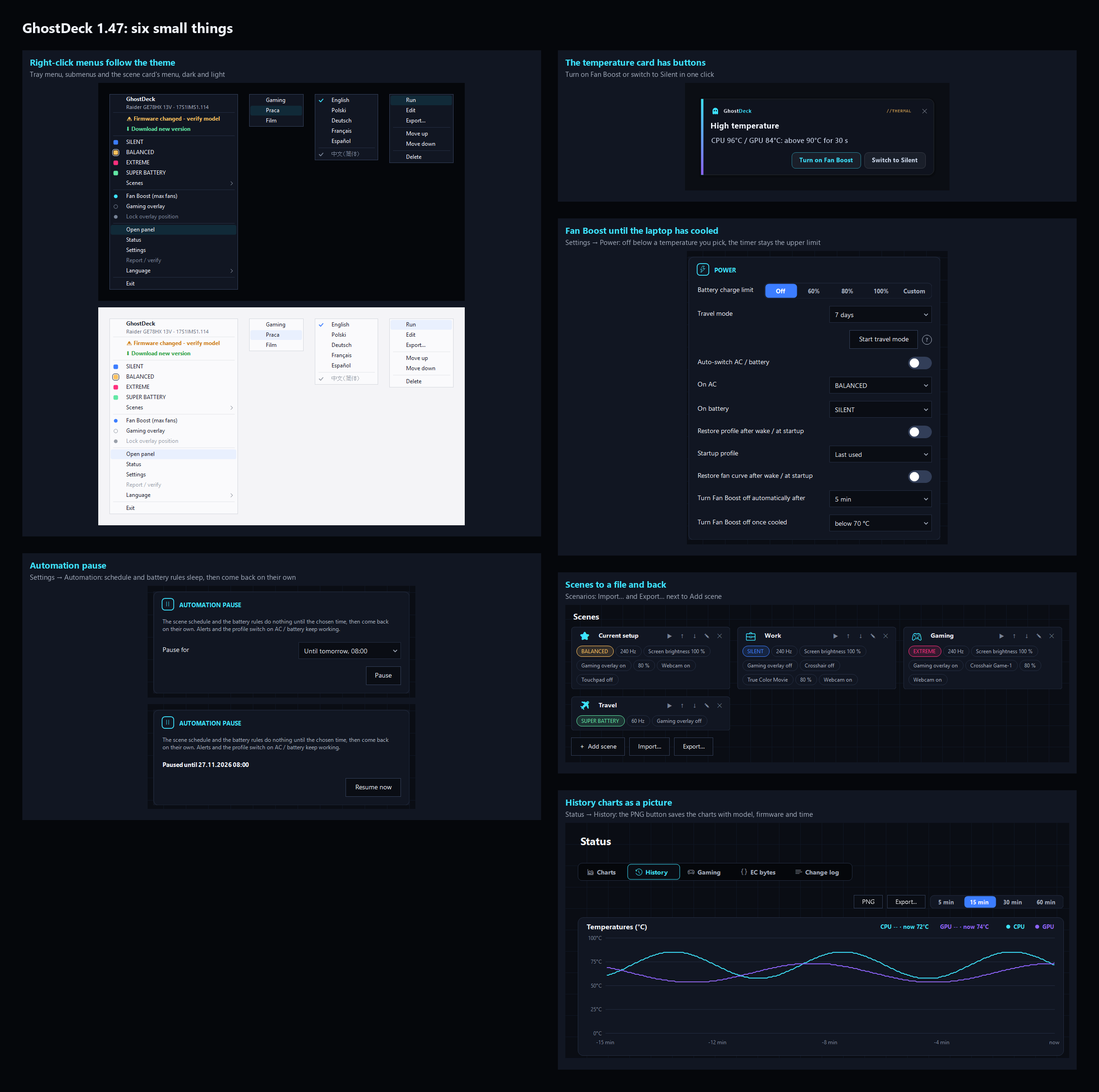
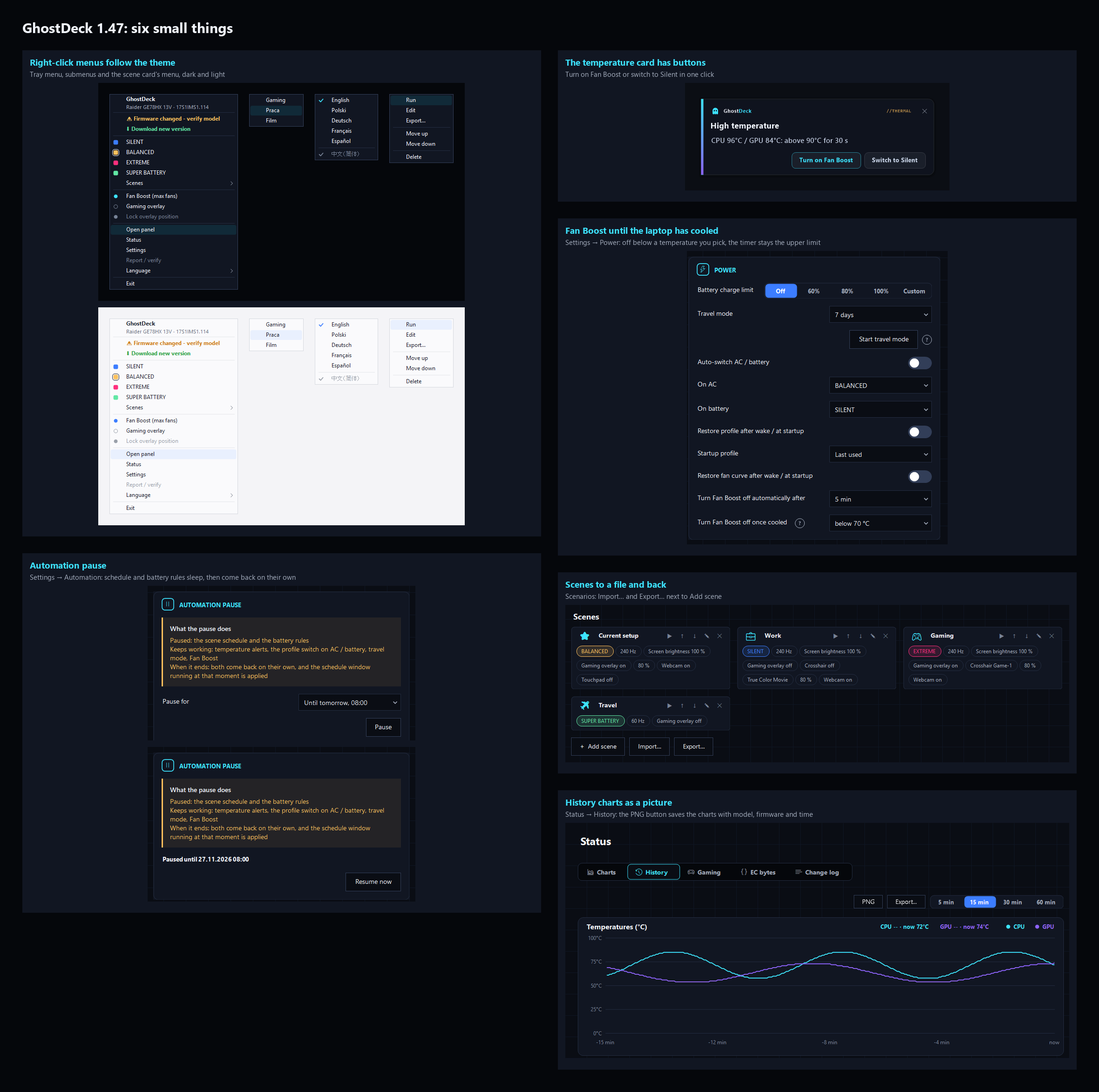
Fan Boost off once cooled: a help dot that says both CPU and GPU are watched; automation pause: an amber note of what the pause does (NoteBox)

Changed region(s): [[0.1237, 0.6537, 0.3712, 0.7783], [0.1547, 0.5603, 0.3712, 0.6537]]

diff --git a/Core/Lang.cs b/Core/Lang.cs
@@ -748,23 +748,80 @@ public static class Lang
         m["scene_file_bad"] = new[] { "This file holds no GhostDeck scenes.", "W tym pliku nie ma scen GhostDeck.", "Diese Datei enthält keine GhostDeck-Szenen.", "Ce fichier ne contient aucune scène GhostDeck.", "Este archivo no contiene escenas de GhostDeck.", "此文件中没有 GhostDeck 场景。", "Este arquivo não contém cenas do GhostDeck.", "В этом файле нет сцен GhostDeck.", "このファイルに GhostDeck のシーンはありません。", "이 파일에는 GhostDeck 장면이 없습니다.", "此檔案中沒有 GhostDeck 場景。", "Bu dosyada GhostDeck sahnesi yok.", "Tệp này không chứa cảnh GhostDeck nào.", "Berkas ini tidak berisi adegan GhostDeck.", "Questo file non contiene scene GhostDeck." };
         // (roadmap #75) automation pause
         m["ap_grp"]         = new[] { "Automation pause", "Pauza automatyki", "Automatik-Pause", "Pause de l'automatisation", "Pausa de la automatización", "自动化暂停", "Pausa da automação", "Пауза автоматики", "自動化の一時停止", "자동화 일시 중지", "自動化暫停", "Otomasyon duraklatma", "Tạm dừng tự động hóa", "Jeda otomatisasi", "Pausa dell'automazione" };
-        m["ap_desc"]        = new[]
+        // the amber note of the pause card: a title and three lines (what stops, what keeps working, what happens at the end)
+        m["ap_box_title"]   = new[] { "What the pause does", "Co robi pauza", "Was die Pause bewirkt", "Ce que fait la pause", "Qué hace la pausa", "暂停的作用", "O que a pausa faz", "Что делает пауза", "一時停止の内容", "일시 중지가 하는 일", "暫停的作用", "Duraklatma ne yapar", "Tạm dừng làm gì", "Apa yang dilakukan jeda", "Cosa fa la pausa" };
+        m["ap_box_paused"]  = new[]
         {
-            "The scene schedule and the battery rules do nothing until the chosen time, then come back on their own. Alerts and the profile switch on AC / battery keep working.",
-            "Harmonogram scen i reguły baterii nic nie robią do wybranej pory, potem same wracają. Alerty i przełączanie profilu przy zasilaczu / baterii działają dalej.",
-            "Szenen-Zeitplan und Akkuregeln tun bis zum gewählten Zeitpunkt nichts und kommen dann von selbst zurück. Warnungen und der Profilwechsel bei Netz / Akku arbeiten weiter.",
-            "La planification des scènes et les règles de batterie ne font rien jusqu'au moment choisi, puis reviennent d'elles-mêmes. Les alertes et le changement de profil secteur / batterie continuent.",
-            "La programación de escenas y las reglas de batería no hacen nada hasta el momento elegido y luego vuelven solas. Las alertas y el cambio de perfil con corriente / batería siguen funcionando.",
-            "场景计划和电池规则在所选时间之前不执行任何操作，之后自动恢复。警报以及电源 / 电池的配置文件切换照常工作。",
-            "O agendamento de cenas e as regras de bateria não fazem nada até a hora escolhida e depois voltam sozinhos. Os alertas e a troca de perfil na tomada / bateria continuam funcionando.",
-            "Расписание сцен и правила батареи ничего не делают до выбранного времени, а потом включаются сами. Оповещения и смена профиля при питании от сети / батареи работают как обычно.",
-            "シーンスケジュールとバッテリールールは選んだ時刻まで何もせず、その後は自動で再開します。アラートと AC / バッテリーでのプロファイル切り替えは動作を続けます。",
-            "장면 일정과 배터리 규칙은 선택한 시간까지 아무 동작도 하지 않고, 이후 자동으로 돌아옵니다. 알림과 전원 / 배터리 프로필 전환은 계속 작동합니다.",
-            "場景排程和電池規則在所選時間之前不執行任何動作，之後自動恢復。警示以及電源 / 電池的設定檔切換照常運作。",
-            "Sahne zamanlaması ve pil kuralları seçilen zamana kadar hiçbir şey yapmaz, sonra kendiliğinden geri döner. Uyarılar ve adaptör / pil profil geçişi çalışmaya devam eder.",
-            "Lịch trình cảnh và các quy tắc pin không làm gì cho đến thời điểm đã chọn, sau đó tự hoạt động lại. Cảnh báo và việc chuyển hồ sơ khi cắm sạc / dùng pin vẫn hoạt động.",
-            "Jadwal adegan dan aturan baterai tidak melakukan apa pun sampai waktu yang dipilih, lalu kembali dengan sendirinya. Peringatan dan peralihan profil saat AC / baterai tetap berjalan.",
-            "La pianificazione delle scene e le regole della batteria non fanno nulla fino al momento scelto, poi tornano da sole. Gli avvisi e il cambio profilo con alimentatore / batteria continuano a funzionare.",
+            "Paused: the scene schedule and the battery rules",
+            "Wstrzymane: harmonogram scen i reguły baterii",
+            "Pausiert: Szenen-Zeitplan und Akkuregeln",
+            "En pause : la planification des scènes et les règles de batterie",
+            "En pausa: la programación de escenas y las reglas de batería",
+            "已暂停：场景计划和电池规则",
+            "Em pausa: o agendamento de cenas e as regras de bateria",
+            "На паузе: расписание сцен и правила батареи",
+            "一時停止：シーンスケジュールとバッテリールール",
+            "일시 중지: 장면 일정과 배터리 규칙",
+            "已暫停：場景排程和電池規則",
+            "Duraklatılan: sahne zamanlaması ve pil kuralları",
+            "Tạm dừng: lịch trình cảnh và các quy tắc pin",
+            "Dijeda: jadwal adegan dan aturan baterai",
+            "In pausa: la pianificazione delle scene e le regole della batteria",
+        };
+        m["ap_box_keeps"]   = new[]
+        {
+            "Keeps working: temperature alerts, the profile switch on AC / battery, travel mode, Fan Boost",
+            "Działa dalej: alerty temperatur, przełączanie profilu zasilacz / bateria, tryb podróży, Fan Boost",
+            "Arbeitet weiter: Temperaturwarnungen, Profilwechsel bei Netz / Akku, Reisemodus, Fan Boost",
+            "Continue de fonctionner : alertes de température, changement de profil secteur / batterie, mode voyage, Fan Boost",
+            "Sigue funcionando: alertas de temperatura, cambio de perfil con corriente / batería, modo viaje, Fan Boost",
+            "照常工作：温度警报、电源 / 电池的配置文件切换、旅行模式、Fan Boost",
+            "Continua funcionando: alertas de temperatura, troca de perfil na tomada / bateria, modo viagem, Fan Boost",
+            "Работает как обычно: оповещения о температуре, смена профиля от сети / батареи, режим поездки, Fan Boost",
+            "動作を続けるもの：温度アラート、AC / バッテリーでのプロファイル切り替え、トラベルモード、Fan Boost",
+            "계속 작동: 온도 알림, 전원 / 배터리 프로필 전환, 여행 모드, Fan Boost",
+            "照常運作：溫度警示、電源 / 電池的設定檔切換、旅行模式、Fan Boost",
+            "Çalışmaya devam eder: sıcaklık uyarıları, adaptör / pil profil geçişi, seyahat modu, Fan Boost",
+            "Vẫn hoạt động: cảnh báo nhiệt độ, chuyển hồ sơ khi cắm sạc / dùng pin, chế độ du lịch, Fan Boost",
+            "Tetap berjalan: peringatan suhu, peralihan profil saat AC / baterai, mode perjalanan, Fan Boost",
+            "Continua a funzionare: avvisi di temperatura, cambio profilo con alimentatore / batteria, modalità viaggio, Fan Boost",
+        };
+        m["ap_box_after"]   = new[]
+        {
+            "When it ends: both come back on their own, and the schedule window running at that moment is applied",
+            "Po zakończeniu: oba wracają same i obowiązuje okno harmonogramu, które wtedy trwa",
+            "Am Ende: beide kommen von selbst zurück, und das dann laufende Zeitfenster wird angewendet",
+            "À la fin : les deux reviennent d'eux-mêmes, et la plage horaire en cours à ce moment est appliquée",
+            "Al terminar: ambas vuelven solas y se aplica la franja horaria que esté activa en ese momento",
+            "结束时：两者自动恢复，并应用当时正在进行的计划时段",
+            "Ao terminar: os dois voltam sozinhos e a janela do agendamento em curso nesse momento é aplicada",
+            "По окончании: оба включаются сами, и применяется окно расписания, идущее в этот момент",
+            "終了時：どちらも自動で再開し、その時点で進行中のスケジュール枠が適用されます",
+            "끝나면: 둘 다 자동으로 돌아오고, 그때 진행 중인 일정 구간이 적용됩니다",
+            "結束時：兩者自動恢復，並套用當時正在進行的排程時段",
+            "Bittiğinde: ikisi de kendiliğinden geri döner ve o anda süren zaman aralığı uygulanır",
+            "Khi kết thúc: cả hai tự hoạt động lại và khung giờ lịch trình đang diễn ra lúc đó được áp dụng",
+            "Saat berakhir: keduanya kembali dengan sendirinya, dan jendela jadwal yang sedang berjalan saat itu diterapkan",
+            "Al termine: entrambe tornano da sole e viene applicata la fascia oraria in corso in quel momento",
+        };
+        // (roadmap #37) the "?" next to "Turn Fan Boost off once cooled"
+        m["fb_cool_help"]   = new[]
+        {
+            "Fan Boost turns off when the hotter of the processor and the graphics card has stayed below this temperature for about 10 seconds.\n\nBoth are watched, not the processor alone: otherwise Fan Boost would turn off while the graphics card is still hot.\n\nFan Boost always runs for at least 30 seconds. The timer above keeps working and is the upper limit when both are set.",
+            "Fan Boost wyłącza się, gdy cieplejszy z pary procesor / karta graficzna utrzyma się poniżej tej temperatury przez około 10 sekund.\n\nLiczą się oba, nie sam procesor: inaczej Fan Boost wyłączałby się przy wciąż gorącej karcie graficznej.\n\nFan Boost działa zawsze co najmniej 30 sekund. Licznik czasu powyżej działa dalej i jest górnym limitem, gdy ustawione są oba.",
+            "Fan Boost schaltet sich aus, wenn der heißere von Prozessor und Grafikkarte etwa 10 Sekunden unter dieser Temperatur geblieben ist.\n\nBeide werden beobachtet, nicht nur der Prozessor: sonst würde Fan Boost ausgehen, während die Grafikkarte noch heiß ist.\n\nFan Boost läuft immer mindestens 30 Sekunden. Der Timer darüber arbeitet weiter und ist die Obergrenze, wenn beides eingestellt ist.",
+            "Fan Boost s'éteint quand le plus chaud du processeur et de la carte graphique est resté sous cette température pendant environ 10 secondes.\n\nLes deux sont surveillés, pas seulement le processeur : sinon Fan Boost s'éteindrait alors que la carte graphique est encore chaude.\n\nFan Boost fonctionne toujours au moins 30 secondes. Le minuteur ci-dessus continue et reste la limite haute quand les deux sont réglés.",
+            "Fan Boost se apaga cuando el más caliente entre el procesador y la tarjeta gráfica se ha mantenido por debajo de esta temperatura unos 10 segundos.\n\nSe vigilan los dos, no solo el procesador: de lo contrario Fan Boost se apagaría con la tarjeta gráfica aún caliente.\n\nFan Boost funciona siempre al menos 30 segundos. El temporizador de arriba sigue activo y es el límite máximo cuando ambos están configurados.",
+            "当处理器和显卡中较热的一个在此温度以下保持约 10 秒时，Fan Boost 关闭。\n\n两者都会被监测，而不只是处理器：否则显卡仍然很热时 Fan Boost 就会关闭。\n\nFan Boost 至少运行 30 秒。上方的计时器照常工作，两者都设置时它是时间上限。",
+            "O Fan Boost desliga quando o mais quente entre o processador e a placa de vídeo fica abaixo desta temperatura por cerca de 10 segundos.\n\nOs dois são observados, não só o processador: senão o Fan Boost desligaria com a placa de vídeo ainda quente.\n\nO Fan Boost funciona sempre por pelo menos 30 segundos. O temporizador acima continua ativo e é o limite máximo quando os dois estão definidos.",
+            "Fan Boost выключается, когда более горячий из процессора и видеокарты держится ниже этой температуры около 10 секунд.\n\nУчитываются оба, а не только процессор: иначе Fan Boost выключался бы при всё ещё горячей видеокарте.\n\nFan Boost всегда работает не меньше 30 секунд. Таймер выше продолжает действовать и остаётся верхним пределом, когда заданы оба.",
+            "プロセッサとグラフィックカードのうち熱い方が、この温度を約 10 秒間下回ると Fan Boost はオフになります。\n\nプロセッサだけでなく両方を監視します。そうしないと、グラフィックカードがまだ熱いうちに Fan Boost がオフになってしまいます。\n\nFan Boost は必ず 30 秒以上動作します。上のタイマーも引き続き働き、両方を設定した場合は上限になります。",
+            "프로세서와 그래픽 카드 중 더 뜨거운 쪽이 이 온도 아래로 약 10초 동안 유지되면 Fan Boost가 꺼집니다.\n\n프로세서만이 아니라 둘 다 확인합니다. 그렇지 않으면 그래픽 카드가 아직 뜨거운데 Fan Boost가 꺼지게 됩니다.\n\nFan Boost는 항상 최소 30초 동안 작동합니다. 위의 타이머도 계속 작동하며, 둘 다 설정된 경우 상한이 됩니다.",
+            "當處理器和顯示卡中較熱的一個在此溫度以下維持約 10 秒時，Fan Boost 關閉。\n\n兩者都會被監測，而不只是處理器：否則顯示卡仍然很熱時 Fan Boost 就會關閉。\n\nFan Boost 至少運作 30 秒。上方的計時器照常運作，兩者都設定時它是時間上限。",
+            "İşlemci ve ekran kartından daha sıcak olanı yaklaşık 10 saniye bu sıcaklığın altında kaldığında Fan Boost kapanır.\n\nYalnızca işlemci değil, ikisi de izlenir: aksi halde ekran kartı hâlâ sıcakken Fan Boost kapanırdı.\n\nFan Boost her zaman en az 30 saniye çalışır. Yukarıdaki zamanlayıcı çalışmaya devam eder ve ikisi de ayarlıysa üst sınırdır.",
+            "Fan Boost tắt khi linh kiện nóng hơn trong hai linh kiện, bộ xử lý và card đồ họa, giữ dưới nhiệt độ này khoảng 10 giây.\n\nCả hai đều được theo dõi, không chỉ bộ xử lý: nếu không, Fan Boost sẽ tắt khi card đồ họa vẫn còn nóng.\n\nFan Boost luôn chạy ít nhất 30 giây. Bộ hẹn giờ ở trên vẫn hoạt động và là giới hạn trên khi cả hai được đặt.",
+            "Fan Boost mati ketika yang lebih panas di antara prosesor dan kartu grafis bertahan di bawah suhu ini selama sekitar 10 detik.\n\nKeduanya dipantau, bukan hanya prosesor: jika tidak, Fan Boost akan mati saat kartu grafis masih panas.\n\nFan Boost selalu berjalan setidaknya 30 detik. Pengatur waktu di atas tetap bekerja dan menjadi batas atas jika keduanya diatur.",
+            "Fan Boost si spegne quando il più caldo tra processore e scheda grafica è rimasto sotto questa temperatura per circa 10 secondi.\n\nVengono controllati entrambi, non solo il processore: altrimenti Fan Boost si spegnerebbe con la scheda grafica ancora calda.\n\nFan Boost funziona sempre per almeno 30 secondi. Il timer qui sopra continua a funzionare ed è il limite massimo quando sono impostati entrambi.",
         };
         m["ap_for"]         = new[] { "Pause for", "Wstrzymaj na", "Pausieren für", "Mettre en pause pendant", "Pausar durante", "暂停时长", "Pausar por", "Приостановить на", "一時停止する期間", "일시 중지 기간", "暫停時長", "Şu süreyle duraklat", "Tạm dừng trong", "Jeda selama", "Metti in pausa per" };
         m["ap_start"]       = new[] { "Pause", "Wstrzymaj", "Pausieren", "Mettre en pause", "Pausar", "暂停", "Pausar", "Приостановить", "一時停止", "일시 중지", "暫停", "Duraklat", "Tạm dừng", "Jeda", "Metti in pausa" };

diff --git a/UI/Controls/NoteBox.cs b/UI/Controls/NoteBox.cs
@@ -1,0 +1,67 @@
+namespace GhostDeck;
+
+/// <summary>
+/// The amber note of a Settings card: a tinted block with an amber rail on its left, a title
+/// and a few lines under it that say what the card's action does. Same look as the "Restore
+/// Windows settings" block of the Windows power card (WinPowerBody), as one drawn control: no
+/// child windows, colours read from <see cref="Theme"/> while painting.
+///
+/// The block takes the width it is given and sets its own height from the wrapped text, so a
+/// card lays it out as a full-width row (name it "wp-wide" in a CardSection).
+/// </summary>
+internal sealed class NoteBox : Control
+{
+    private static readonly Font FTitle = Dpi.Font("Segoe UI Semibold", 10.5f);
+    private static readonly Font FBody = Dpi.Font("Segoe UI", 10f);
+    private const TextFormatFlags Wrap = TextFormatFlags.Left | TextFormatFlags.Top | TextFormatFlags.WordBreak | TextFormatFlags.NoPadding | TextFormatFlags.NoPrefix;
+
+    private readonly string _title;
+    private readonly string _body;
+
+    public NoteBox(string title, IEnumerable<string> lines)
+    {
+        _title = title;
+        _body = string.Join("\n", lines);
+        SetStyle(ControlStyles.UserPaint | ControlStyles.AllPaintingInWmPaint | ControlStyles.OptimizedDoubleBuffer | ControlStyles.ResizeRedraw, true);
+        TabStop = false;
+        Width = S(360);
+        FitHeight();
+    }
+
+    private int S(float v) => (int)Math.Ceiling(v * Dpi.Of(this) / 96f);
+
+    private int TextW => Math.Max(S(60), Width - S(18) * 2);
+
+    private static int TextH(string text, Font f, int width) =>
+        text.Length == 0 ? 0 : TextRenderer.MeasureText(text, f, new Size(width, int.MaxValue), Wrap).Height;
+
+    private void FitHeight()
+    {
+        int h = S(14) * 2 + TextH(_title, FTitle, TextW) + S(6) + TextH(_body, FBody, TextW);
+        if (Height != h) Height = h;
+    }
+
+    protected override void OnSizeChanged(EventArgs e)
+    {
+        base.OnSizeChanged(e);
+        FitHeight();
+    }
+
+    protected override void OnPaint(PaintEventArgs e)
+    {
+        var g = e.Graphics;
+        Color card = Theme.Card, amber = Theme.Amber;
+        // the card's surface with a little amber in it, as in the Windows power card
+        var tint = Color.FromArgb(
+            (int)(card.R + (amber.R - card.R) * 0.08f),
+            (int)(card.G + (amber.G - card.G) * 0.08f),
+            (int)(card.B + (amber.B - card.B) * 0.08f));
+        using (var bb = new SolidBrush(tint)) g.FillRectangle(bb, ClientRectangle);
+        using (var rb = new SolidBrush(amber)) g.FillRectangle(rb, 0, 0, Math.Max(3, S(3)), Height);
+        int x = S(18), y = S(14), w = TextW;
+        int titleH = TextH(_title, FTitle, w);
+        TextRenderer.DrawText(g, _title, FTitle, new Rectangle(x, y, w, titleH), Theme.Text, Wrap);
+        y += titleH + S(6);
+        TextRenderer.DrawText(g, _body, FBody, new Rectangle(x, y, w, TextH(_body, FBody, w)), amber, Wrap);
+    }
+}

diff --git a/UI/SettingsPage.cs b/UI/SettingsPage.cs
@@ -727,7 +727,8 @@ public sealed partial class SettingsPage : ThemedPage
                 D.Settings.FanBoostUntilTemp = coolVals[cool.SelectedIndex];
                 D.SaveSettings();
             };
-            power.AddRow(Lang.T("set_fb_cool"), cool);
+            // the "?" after the label says what "cooled" means: both chips are watched, not the CPU alone
+            power.AddRow(Lang.T("set_fb_cool"), cool, new HelpDot { TextProvider = () => Lang.T("fb_cool_help") });
             return power;
         }
         _buildPower = BuildPower;
@@ -754,11 +755,9 @@ public sealed partial class SettingsPage : ThemedPage
         CardSection BuildPause()
         {
             var ap = new CardSection(Lang.T("ap_grp"), "");   // MDL2 Pause
-            ap.AddRow(null, new Label
-            {
-                Text = Lang.T("ap_desc"), AutoSize = true, MaximumSize = new Size(360, 0),
-                Font = Dpi.Font("Segoe UI", 9f), Tag = "muted",
-            });
+            // the amber note says what the pause does: what stops, what keeps working, what happens at its end
+            ap.AddRow(null, new NoteBox(Lang.T("ap_box_title"),
+                new[] { Lang.T("ap_box_paused"), Lang.T("ap_box_keeps"), Lang.T("ap_box_after") }) { Name = "wp-wide" });
             var until = D.Settings.AutomationPausedUntil;
             bool paused = until > DateTime.Now;
             _builtPaused = paused;
@@ -801,7 +800,7 @@ public sealed partial class SettingsPage : ThemedPage
                 ap.AddRow(null, new Label
                 {
                     Text = string.Format(Lang.T("ap_note"), until.ToShortDateString() + " " + until.ToShortTimeString()),
-                    AutoSize = true, MaximumSize = new Size(360, 0),
+                    AutoSize = true, MaximumSize = new Size((int)Math.Ceiling(520 * Dpi.Of(this) / 96f), 0),   // wraps only when the line is really long, at any scale
                     Font = Dpi.Font("Segoe UI", 9.5f, FontStyle.Bold),
                 });
                 btn.Click += (_, _) =>

diff --git a/CHANGELOG.md b/CHANGELOG.md
@@ -6,9 +6,9 @@ Format loosely based on [Keep a Changelog](https://keepachangelog.com/).
 ## [Unreleased]
 ### Added
 - **An update that needs a newer .NET asks first.** When a GhostDeck release needs a newer version of Microsoft's .NET Desktop Runtime than the one on your computer, the update no longer goes ahead on its own. A card offers to install .NET together with the update, to open Microsoft's download page, or to cancel and keep the current version. This is the only case in which GhostDeck installs anything, and it only happens after that click. See the FAQ "Does GhostDeck install anything on my computer?".
-- **Fan Boost turns itself off once the laptop has cooled.** Settings → Power has a second rule next to the timer: *Turn Fan Boost off once cooled*, below 55 to 80 °C. Fan Boost then stays on until the hotter of the processor and the graphics card has held below that temperature for about ten seconds (and for at least half a minute in any case), and hands the fans back to the profile. The timer keeps working beside it and is the upper limit when both are set; the on-screen message and the change history say which of the two ended it.
+- **Fan Boost turns itself off once the laptop has cooled.** Settings → Power has a second rule next to the timer: *Turn Fan Boost off once cooled*, below 55 to 80 °C. Fan Boost then stays on until the hotter of the processor and the graphics card has held below that temperature for about ten seconds (and for at least half a minute in any case), and hands the fans back to the profile. The timer keeps working beside it and is the upper limit when both are set; the on-screen message and the change history say which of the two ended it. The "?" next to the setting explains that both the processor and the graphics card are watched, so Fan Boost does not stop while the graphics card is still hot.
 - **The temperature alert card has buttons.** The card that reports a high temperature now offers *Turn on Fan Boost* and *Switch to Silent*, each only where it applies (no Fan Boost button while it is already on or on the backup WMI path, no Silent button in Silent). The cross in the corner closes the card without doing either.
-- **Automation pause.** Settings → Automation has a new card: the scene schedule and the battery rules do nothing for 2 hours, until tomorrow morning, for 3 to 30 days or for a number of days of your own, and come back on their own; *Resume now* ends it early. When the pause ends, the schedule window that is running at that moment is applied, as at startup. Alerts, travel mode and the profile switch on AC / battery are not paused.
+- **Automation pause.** Settings → Automation has a new card: the scene schedule and the battery rules do nothing for 2 hours, until tomorrow morning, for 3 to 30 days or for a number of days of your own, and come back on their own; *Resume now* ends it early. When the pause ends, the schedule window that is running at that moment is applied, as at startup. Alerts, travel mode, Fan Boost and the profile switch on AC / battery are not paused; an amber note on the card lists what is paused, what keeps working and what happens when the pause ends.
 - **Scenes to a file and back.** The Scenarios tab has *Import…* and *Export…* next to *Add scene*, and a scene card's right-click menu has *Export…* for that one scene. The file is plain JSON. Imported scenes are added next to yours, never over them: each gets a free name, hotkeys are not carried over, and what the file names but this computer does not have (a fan-curve preset or a crosshair preset by that name, the display a refresh rate was picked for) is left out of the scene.
 - **History charts as a picture.** Status → History has a *PNG* button next to *Export…*: it saves the charts as you see them (theme and time range included) under one line with the app version, model, firmware, time and range, ready for a report or a forum post.
 

diff --git a/docs/TECHNICAL.md b/docs/TECHNICAL.md
@@ -5011,6 +5011,10 @@ target, which is the intended use while a game is running. Nothing is checked du
 EC operation (`_ecBusy`), like the timer. No Fan Boost register exists on the backup WMI path,
 so the rule has nothing to act on there.
 
+The row's label carries a help dot (`CardSection.AddRow(label, control, help)`, the "?" right
+after the label, so the list keeps its column). Its bubble says what "cooled" means: both the
+processor and the graphics card are watched, the 30 s minimum, and the timer as the upper limit.
+
 ![Settings, Power: the timer and the rule under it](images/fan_boost_cooled.png)
 
 ### 90.2 The temperature card's buttons (roadmap #50)
@@ -5049,6 +5053,13 @@ The pause is machine state, like travel mode: a settings import does not carry i
 card (Settings → Automation, `BuildPause`) offers 2 hours, until tomorrow 8:00, 3 / 7 / 14 / 30
 days and a number of days of the user's own (1 to 365); while a pause runs it shows the end
 time and *Resume now*. `MainDeps.PauseAutomation` is the page's one call into the tray context.
+
+The card opens with an amber note, *What the pause does*, in three lines: what is paused, what
+keeps working (temperature alerts, the profile switch on AC / battery, travel mode, Fan Boost)
+and what happens when it ends. The note is `UI/Controls/NoteBox.cs`: one drawn control with the
+look of the *Restore Windows settings* block of the Windows power card (amber rail, tinted
+surface, title in the text colour, lines in amber), which takes the card's width and sets its own
+height from the wrapped text. Any card that has to say what its action does can use it.
 
 | Before | While a pause runs |
 |---|---|
